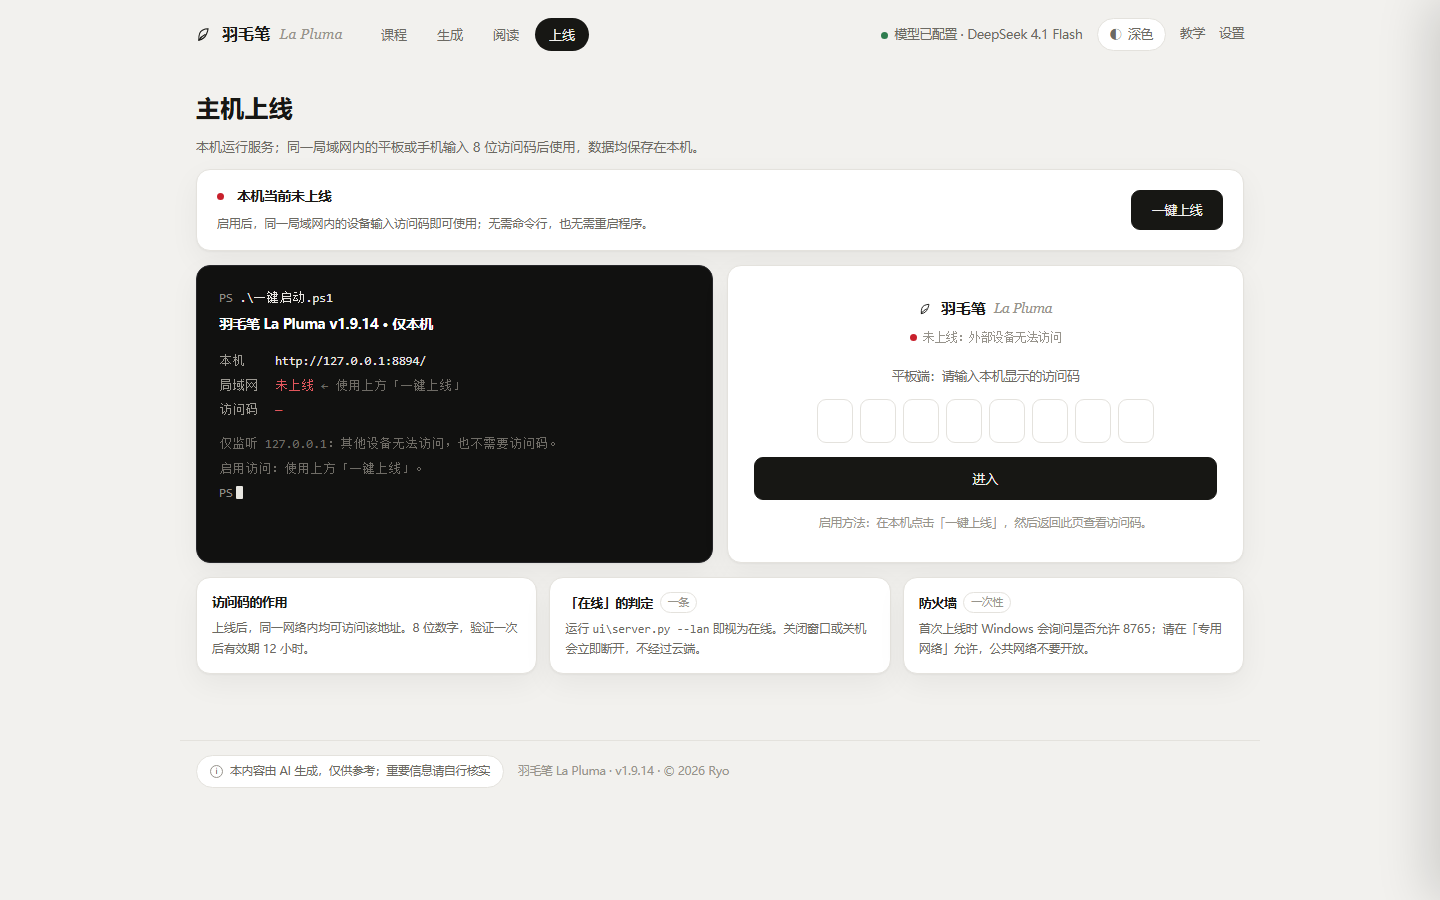
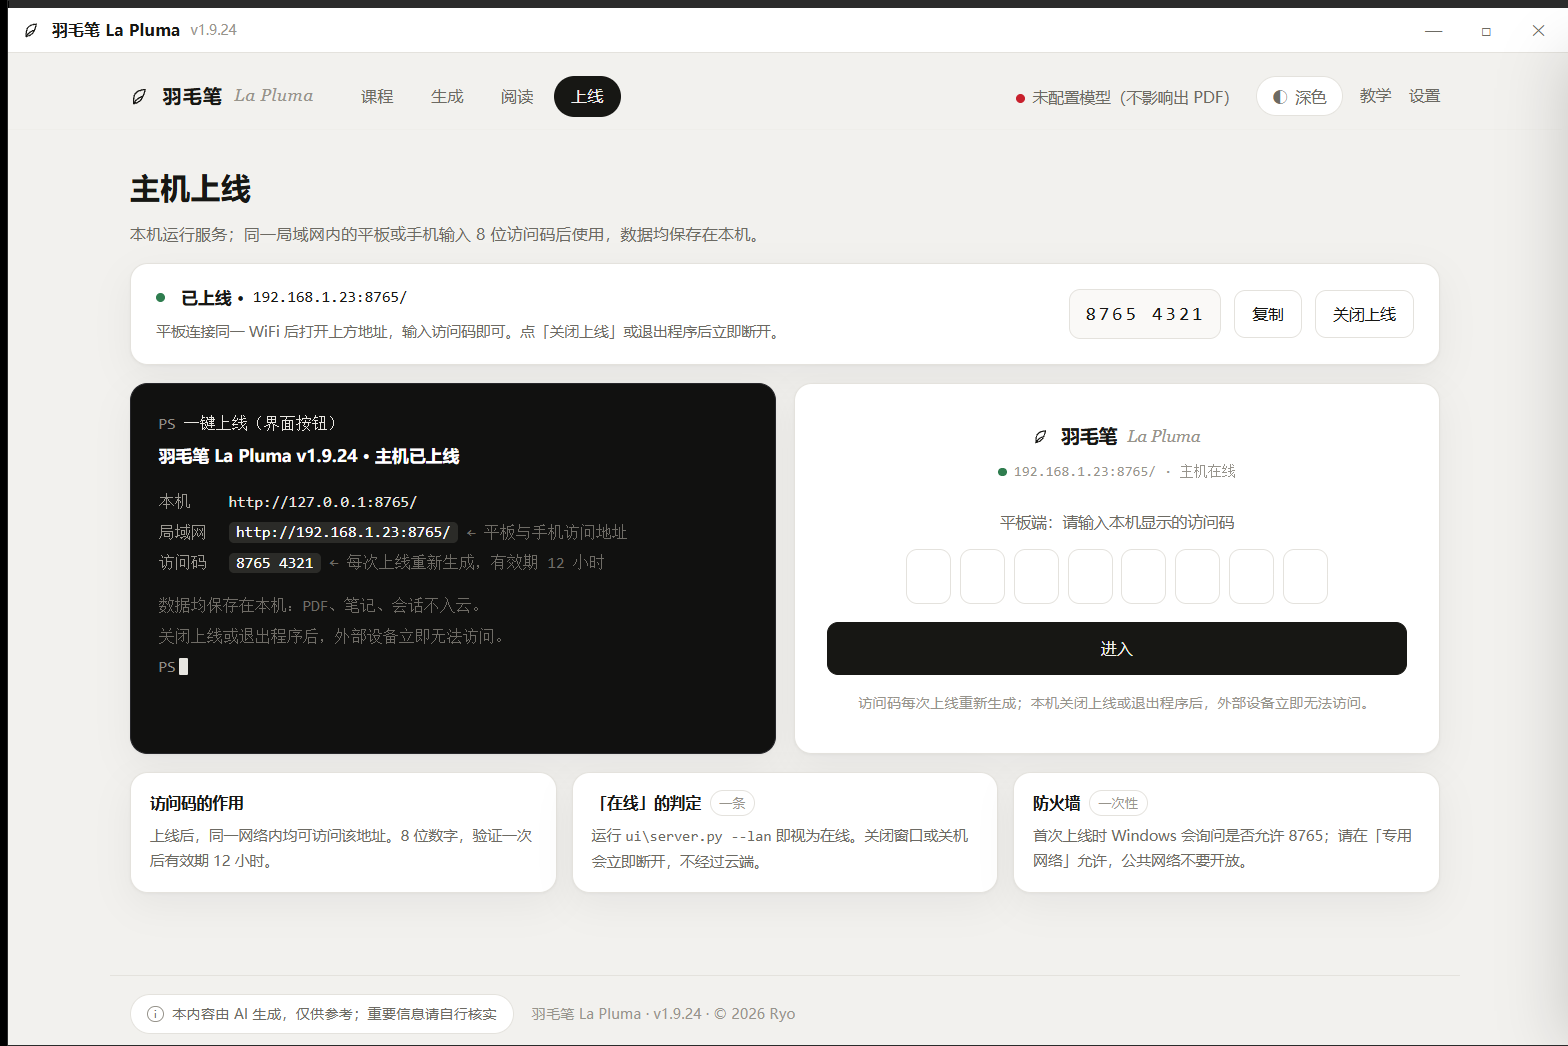
docs(截图): 覆盖表按用途分组（--- 分类（N 张）--- 分隔）+ 上线页换脱敏图

Changed region(s): [[0.0, 0.0, 1.0, 1.0], [0.875, 0.0622, 0.9062, 0.0933]]

diff --git a/tools/check/check-shot-coverage.py b/tools/check/check-shot-coverage.py
@@ -62,6 +62,47 @@ def coverage(cover_path: str) -> dict:
     return out
 
 
+GROUP_RE = re.compile(r"^###\s*---\s*(.+?)\s*[（(]\s*(\d+)\s*张\s*[）)]\s*---\s*$")
+
+
+def check_groups(cover_path: str) -> list:
+    """2026-11-26 用户定：预览图要分类，每组一行 `--- 分类（N 张）---`，N 要与实际行数相符。
+
+    只查「已拍」段里的分组标题与它下面紧跟的表格行数；标题写 12 张、下面只有 11 行 → 红。
+    """
+    errs = []
+    group = None
+    count = 0
+    seen = 0
+    section = "已拍"
+
+    def flush():
+        if group is None:
+            return
+        if count != group[1]:
+            errs.append("分组「%s」写的是 %d 张，下面只有 %d 行" % (group[0], group[1], count))
+
+    for line in open(cover_path, encoding="utf-8"):
+        s = line.strip()
+        if s.startswith("## "):
+            flush(); group = None; count = 0
+            section = "待补" if "待补" in s else ("未实现" if "未实现" in s else "已拍")
+            continue
+        m = GROUP_RE.match(s)
+        if m:
+            flush()
+            group = (m.group(1), int(m.group(2)))
+            count = 0
+            seen += 1
+            continue
+        if group is not None and section == "已拍" and ROW_RE.match(s):
+            count += 1
+    flush()
+    if section == "已拍" and seen == 0:
+        errs.append("已拍段一张分组标题都没有（要 `### --- 分类（N 张）---`，见 AGENTS.md §二十一）")
+    return errs
+
+
 def audit(root: str) -> tuple:
     table = os.path.join(root, "docs", "功能总表.md")
     cover = os.path.join(root, "docs", "资产", "截图覆盖.md")
@@ -73,6 +114,7 @@ def audit(root: str) -> tuple:
         return [], ["没有 docs/资产/截图覆盖.md（新功能没有地方留空位）"]
     feats = features(table)
     cov = coverage(cover)
+    errs.extend(check_groups(cover))
     need = [k for k, v in feats.items() if v["status"] in ("✅", "🟡")]
     shot_n = wait_n = 0
     for lid in need:

diff --git a/docs/资产/截图覆盖.md b/docs/资产/截图覆盖.md
@@ -5,49 +5,81 @@
 
 > 新功能落地时**先在这里占位**（有图写文件名，没图写「待补 · 推送前」+ 原因），推送前补齐——见 `AGENTS.md` §十六。
 > 判据：`python tools\check\check-shot-coverage.py`（提交钩子自动跑）。
-> 图一律是真窗口（PrintWindow），数据只用 DEMO / 假课程，不含本机真实课程名；v1.9.19 / v1.9.20 用假库 `D:\羽毛笔库`、假旧目录与假 C 盘库 `C:\Users\Public\Documents\羽毛笔库-C盘示例`。拍照脚本在 PRTS `projects\课程\ops\lapluma\截图脚本-20261122\shots-real.py`。
+> 图一律是真窗口（PrintWindow），数据只用 DEMO / 假课程，不含本机真实课程名。
+> **2026-11-26 用户定：预览图以后都要分类**——每组一行 `--- 分类（N 张）---` 分隔，见 §二十一。
 
 ## 已拍
 
+### --- 主页与课程（6 张）---
+
 | 功能 | 截图 | 拍于 |
 |:--|:--|:--|
-| L01 浏览课程列表 | 界面-主页.png | 2026-11-23 |
-| L02 收藏课程 | 界面-收藏.png | 2026-11-23 |
-| L03 搜索课程与课件 | 界面-搜索.png | 2026-11-23 |
-| L04 打开课程抽屉看成品与原件 | 界面-文件列表.png | 2026-11-23 |
-| L05 深色 / 浅色主题 | 界面-主页-深色.png | 2026-11-23 |
+| L01 浏览课程列表 | 界面-主页.png | 2026-11-26（真窗口） |
+| L02 收藏课程 | 界面-收藏.png | 2026-11-26（真窗口） |
+| L03 搜索课程与课件 | 界面-搜索.png | 2026-11-26（真窗口） |
+| L04 打开课程抽屉看成品与原件 | 界面-抽屉.png | 2026-11-26（真窗口） |
+| L05 深色 / 浅色主题 | 界面-主页-深色.png | 2026-11-26（真窗口） |
+| L36 自绘标题栏与窗口缩放 | 界面-主页.png | 2026-11-26（真窗口） |
+
+### --- 生成与导出（12 张）---
+
+| 功能 | 截图 | 拍于 |
+|:--|:--|:--|
+| L06 导入课件（按钮态） | 界面-生成.png | 2026-11-26（真窗口） |
 | L07 导入即建占位讲次 | 界面-生成-语言档-全中.png | 2026-11-19（旧，界面已改） |
 | L09 新建课程 | 界面-新建课程.png | 2026-11-23 |
 | L10 批量生成单本讲义（队列中） | 界面-生成-队列中.png | 2026-11-23 |
-| L11 讲义语言两档 | 界面-生成.png | 2026-11-23 |
+| L11 讲义语言两档 | 界面-生成.png | 2026-11-26（真窗口） |
 | L14 三道门把关（生成日志） | 界面-生成-日志.png | 2026-11-23 |
-| L15 选保存目录 | 界面-设置.png | 2026-11-23 |
-| L16 出处可核、可跳 | 界面-出处可点-20261123.png | 2026-11-22（旧） |
 | L16b 生成完成打开本地文件夹 | 界面-生成-完成.png | 2026-11-23 |
-| L17 生成合订本（选项） | 界面-导出.png | 2026-11-23 |
-| L18 推送到仓库（选项） | 界面-生成.png | 2026-11-23 |
-| L19 应用内阅读 PDF | 界面-阅读.png | 2026-11-23 |
-| L20 深色下 PDF 反相、位图保色 | 界面-阅读-深色.png | 2026-11-23 |
-| L21 全屏阅读 | 界面-全屏阅读.png | 2026-11-23 |
-| L19b 阅读四角侧栏 / 铺满高度 / 侧栏宽度与窗口加宽 / 全屏出血位 | 界面-阅读-四角侧栏.png | 2026-11-25（真窗口 PrintWindow；W20–W24 实测） |
+| L17 生成合订本（选项） | 界面-导出.png | 2026-11-26（真窗口） |
+| L18 推送到仓库（选项） | 界面-生成.png | 2026-11-26（真窗口） |
+| L28 导出单份讲义 | 界面-导出.png | 2026-11-26（真窗口） |
+| L29 课程导出（勾选 / 分册 / 合订本） | 界面-导出.png | 2026-11-26（真窗口） |
+| L30 把对话或笔记追加到讲义末尾 | 界面-导出笔记.png | 2026-11-26（真窗口） |
+
+### --- 阅读与侧栏（14 张）---
+
+| 功能 | 截图 | 拍于 |
+|:--|:--|:--|
+| L16 出处可核、可跳 | 界面-出处可点-20261123.png | 2026-11-22（旧） |
+| L19 应用内阅读 PDF | 界面-阅读.png | 2026-11-26（真窗口） |
+| L19b 阅读四角侧栏 / 铺满高度 / 侧栏宽度与窗口加宽 / 全屏出血位 | 界面-阅读-四角侧栏.png | 2026-11-26（真窗口） |
+| L20 深色下 PDF 反相、位图保色 | 界面-阅读-深色.png | 2026-11-26（真窗口） |
+| L21 全屏阅读 | 界面-全屏阅读.png | 2026-11-26（真窗口） |
 | L22 边读边记笔记 | 界面-记笔记-侧栏-20261122.png | 2026-11-21（旧） |
 | L23 选中原文引用记笔记 | 界面-笔记高亮-20261123.png | 2026-11-21（旧） |
 | L24 翻译当前页 | 界面-翻译-结果.png | 2026-11-23 |
-| L25 课程专属会话 | 界面-会话.png | 2026-11-23 |
-| L26 提问并核对出处 | 界面-会话.png | 2026-11-23 |
-| L27 余额不足人话弹窗 | 界面-余额不足.png | 2026-11-19（旧） |
-| L28 导出单份讲义 | 界面-导出.png | 2026-11-23 |
-| L29 课程导出（勾选 / 分册 / 合订本） | 界面-导出.png | 2026-11-23 |
-| L30 把对话或笔记追加到讲义末尾 | 界面-导出笔记.png | 2026-11-19（旧） |
-| L31 一键上线 / 关闭上线 | 界面-上线.png | 2026-11-23 |
+| L25 课程专属会话 | 界面-会话.png | 2026-11-26（真窗口） |
+| L26 提问并核对出处 | 界面-会话.png | 2026-11-26（真窗口） |
+| L45 阅读侧栏会话页签 | 界面-阅读-会话开场白.png | 2026-11-26（真窗口） |
+| L47 阅读空态只留最近阅读 | 界面-阅读-空态-最近阅读.png | 2026-11-26（真窗口） |
+| L48 阅读侧栏「列表」同课程切换成品 / 原件 | 界面-阅读-侧栏列表.png | 2026-11-26（真窗口） |
+| L49 阅读侧栏会话开场白与示例 | 界面-阅读-会话开场白.png | 2026-11-26（真窗口） |
+
+### --- 上线与手机（2 张）---
+
+| 功能 | 截图 | 拍于 |
+|:--|:--|:--|
+| L31 一键上线 / 关闭上线 | 界面-上线-一键已开.png | 2026-11-26（真窗口；地址与访问码已换成示例值） |
 | L32 平板端访问码登录 | 界面-访问码.png | 2026-11-19（旧） |
+
+### --- 设置与安装（5 张）---
+
+| 功能 | 截图 | 拍于 |
+|:--|:--|:--|
+| L15 选保存目录 | 界面-设置.png | 2026-11-23 |
 | L33 首次配置向导 | 界面-首次配置.png | 2026-11-23 |
 | L34 设置 | 界面-设置.png | 2026-11-23 |
 | L35 检查并应用更新 | 界面-更新卡-v1.9.18.png | 2026-11-24（真窗口；1.9.17 → 1.9.18） |
-| L36 自绘标题栏与窗口缩放 | 界面-主页.png | 2026-11-23 |
+| L27 余额不足人话弹窗 | 界面-余额不足.png | 2026-11-19（旧） |
+
+### --- 删除与课程库（3 张）---
+
+| 功能 | 截图 | 拍于 |
+|:--|:--|:--|
 | L37 删除讲次 / 成品 / 原件 | 界面-删除讲次.png | 2026-11-23 |
 | L38 删除整门课程 | 界面-删除课程.png | 2026-11-23 |
-| L06 导入课件（按钮态） | 界面-生成.png | 2026-11-23 |
 | L46 课程库位置与旧库询问（含 C 盘库的挪库询问） | 界面-课程库-v1.9.20.png | 2026-11-25（真窗口；同批 界面-C盘库-v1.9.20.png、界面-旧库询问-v1.9.19.png） |
 
 ## 待补（推送前必须补图）
@@ -62,10 +94,6 @@
 | L39 命令行生成与合订本 | 待补 · 推送前 | 终端输出，不是软件窗口，要单独抓控制台 |
 | L40 命令行问课件与补正文 | 待补 · 推送前 | 同上 |
 | L41 命令行探活与课件图目录 | 待补 · 推送前 | 同上 |
-| L47 阅读空态只留最近阅读 | 界面-阅读-空态-最近阅读.png | 2026-11-25 |
-| L48 阅读侧栏「列表」同课程切换成品 / 原件 | 界面-阅读-侧栏列表.png | 2026-11-25 |
-| L49 阅读侧栏会话开场白与示例 | 界面-阅读-会话开场白.png | 2026-11-25 |
-| L45 阅读侧栏会话页签 | 待补 · 推送前 | 要真窗口（WebView2）PrintWindow 抓「阅读 → 侧栏 → 会话」；本次由子代理改完只跑了真窗口判据（check-window-real.py W19），未拍照留图。docs\预览\22-阅读侧栏-会话.png 是设计稿，不能当真实截图 |
 
 ## 未实现（只有设计稿，见 docs\预览\）
 
